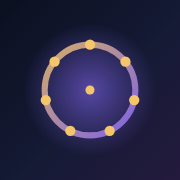
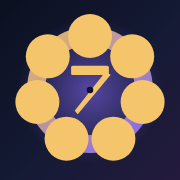
PWA: monograma 7, 17 iconos adaptativos + 13 splash iOS + browserconfig

diff --git a/septenios-app.html b/septenios-app.html
@@ -11,12 +11,30 @@
 <link rel="manifest" href="manifest.webmanifest">
 <link rel="icon" href="favicon.svg" type="image/svg+xml">
 <link rel="icon" href="icons/favicon-32.png" sizes="32x32" type="image/png">
-<link rel="apple-touch-icon" href="icons/apple-touch-icon.png">
+<link rel="icon" href="icons/favicon-16.png" sizes="16x16" type="image/png">
+<link rel="shortcut icon" href="icons/favicon-32.png">
+<link rel="apple-touch-icon" href="icons/apple-touch-icon.png" sizes="180x180">
+<link rel="apple-touch-icon" href="icons/apple-touch-icon-167.png" sizes="167x167">
+<link rel="apple-touch-icon" href="icons/apple-touch-icon-152.png" sizes="152x152">
+<link rel="apple-touch-icon" href="icons/apple-touch-icon-120.png" sizes="120x120">
+<!-- splash screens (iOS los necesita para arrancar con la marca en vez de blanco) -->
+<link rel="apple-touch-startup-image" href="icons/splash-1170x2532.png" media="(device-width: 390px) and (device-height: 844px) and (-webkit-device-pixel-ratio: 3) and (orientation: portrait)">
+<link rel="apple-touch-startup-image" href="icons/splash-1179x2556.png" media="(device-width: 393px) and (device-height: 852px) and (-webkit-device-pixel-ratio: 3) and (orientation: portrait)">
+<link rel="apple-touch-startup-image" href="icons/splash-1206x2622.png" media="(device-width: 402px) and (device-height: 874px) and (-webkit-device-pixel-ratio: 3) and (orientation: portrait)">
+<link rel="apple-touch-startup-image" href="icons/splash-1290x2796.png" media="(device-width: 430px) and (device-height: 932px) and (-webkit-device-pixel-ratio: 3) and (orientation: portrait)">
+<link rel="apple-touch-startup-image" href="icons/splash-1125x2436.png" media="(device-width: 375px) and (device-height: 812px) and (-webkit-device-pixel-ratio: 3) and (orientation: portrait)">
+<link rel="apple-touch-startup-image" href="icons/splash-1242x2688.png" media="(device-width: 414px) and (device-height: 896px) and (-webkit-device-pixel-ratio: 3) and (orientation: portrait)">
+<link rel="apple-touch-startup-image" href="icons/splash-828x1792.png"  media="(device-width: 414px) and (device-height: 896px) and (-webkit-device-pixel-ratio: 2) and (orientation: portrait)">
+<link rel="apple-touch-startup-image" href="icons/splash-750x1334.png"  media="(device-width: 375px) and (device-height: 667px) and (-webkit-device-pixel-ratio: 2) and (orientation: portrait)">
 <meta name="apple-mobile-web-app-capable" content="yes">
 <meta name="apple-mobile-web-app-status-bar-style" content="black-translucent">
 <meta name="apple-mobile-web-app-title" content="Septenios">
 <meta name="mobile-web-app-capable" content="yes">
+<meta name="application-name" content="Septenios">
+<meta name="msapplication-TileColor" content="#0b1020">
+<meta name="msapplication-TileImage" content="icons/icon-180.png">
 <meta name="color-scheme" content="dark light">
+<meta name="msapplication-config" content="browserconfig.xml">
 
 <style>
 /* ================= SEPTENIOS · diseño móvil v2 ================= */

diff --git a/index.html b/index.html
@@ -11,12 +11,30 @@
 <link rel="manifest" href="manifest.webmanifest">
 <link rel="icon" href="favicon.svg" type="image/svg+xml">
 <link rel="icon" href="icons/favicon-32.png" sizes="32x32" type="image/png">
-<link rel="apple-touch-icon" href="icons/apple-touch-icon.png">
+<link rel="icon" href="icons/favicon-16.png" sizes="16x16" type="image/png">
+<link rel="shortcut icon" href="icons/favicon-32.png">
+<link rel="apple-touch-icon" href="icons/apple-touch-icon.png" sizes="180x180">
+<link rel="apple-touch-icon" href="icons/apple-touch-icon-167.png" sizes="167x167">
+<link rel="apple-touch-icon" href="icons/apple-touch-icon-152.png" sizes="152x152">
+<link rel="apple-touch-icon" href="icons/apple-touch-icon-120.png" sizes="120x120">
+<!-- splash screens (iOS los necesita para arrancar con la marca en vez de blanco) -->
+<link rel="apple-touch-startup-image" href="icons/splash-1170x2532.png" media="(device-width: 390px) and (device-height: 844px) and (-webkit-device-pixel-ratio: 3) and (orientation: portrait)">
+<link rel="apple-touch-startup-image" href="icons/splash-1179x2556.png" media="(device-width: 393px) and (device-height: 852px) and (-webkit-device-pixel-ratio: 3) and (orientation: portrait)">
+<link rel="apple-touch-startup-image" href="icons/splash-1206x2622.png" media="(device-width: 402px) and (device-height: 874px) and (-webkit-device-pixel-ratio: 3) and (orientation: portrait)">
+<link rel="apple-touch-startup-image" href="icons/splash-1290x2796.png" media="(device-width: 430px) and (device-height: 932px) and (-webkit-device-pixel-ratio: 3) and (orientation: portrait)">
+<link rel="apple-touch-startup-image" href="icons/splash-1125x2436.png" media="(device-width: 375px) and (device-height: 812px) and (-webkit-device-pixel-ratio: 3) and (orientation: portrait)">
+<link rel="apple-touch-startup-image" href="icons/splash-1242x2688.png" media="(device-width: 414px) and (device-height: 896px) and (-webkit-device-pixel-ratio: 3) and (orientation: portrait)">
+<link rel="apple-touch-startup-image" href="icons/splash-828x1792.png"  media="(device-width: 414px) and (device-height: 896px) and (-webkit-device-pixel-ratio: 2) and (orientation: portrait)">
+<link rel="apple-touch-startup-image" href="icons/splash-750x1334.png"  media="(device-width: 375px) and (device-height: 667px) and (-webkit-device-pixel-ratio: 2) and (orientation: portrait)">
 <meta name="apple-mobile-web-app-capable" content="yes">
 <meta name="apple-mobile-web-app-status-bar-style" content="black-translucent">
 <meta name="apple-mobile-web-app-title" content="Septenios">
 <meta name="mobile-web-app-capable" content="yes">
+<meta name="application-name" content="Septenios">
+<meta name="msapplication-TileColor" content="#0b1020">
+<meta name="msapplication-TileImage" content="icons/icon-180.png">
 <meta name="color-scheme" content="dark light">
+<meta name="msapplication-config" content="browserconfig.xml">
 
 <link rel="stylesheet" href="styles.css">
 </head>
